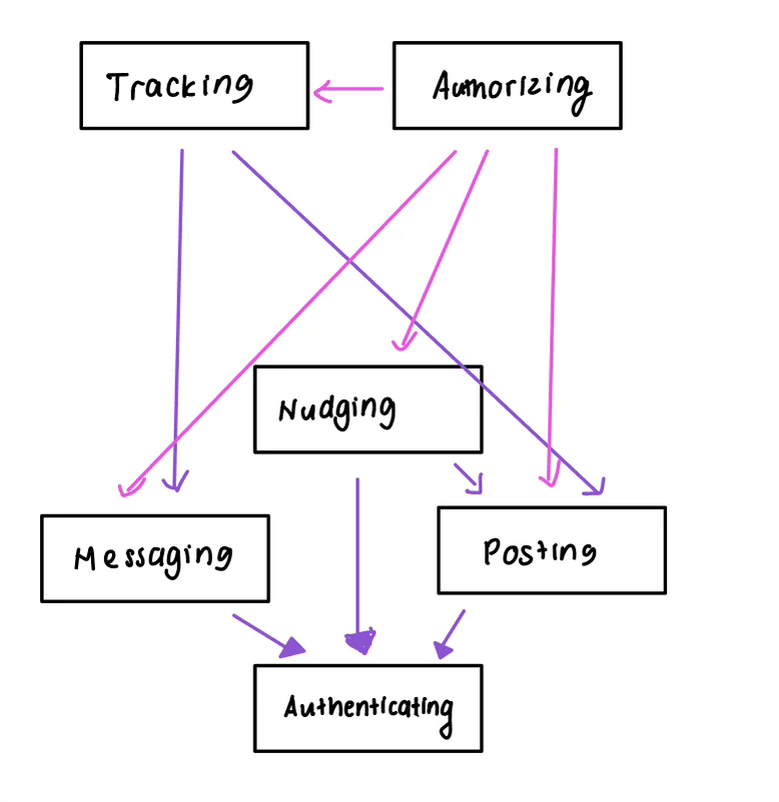
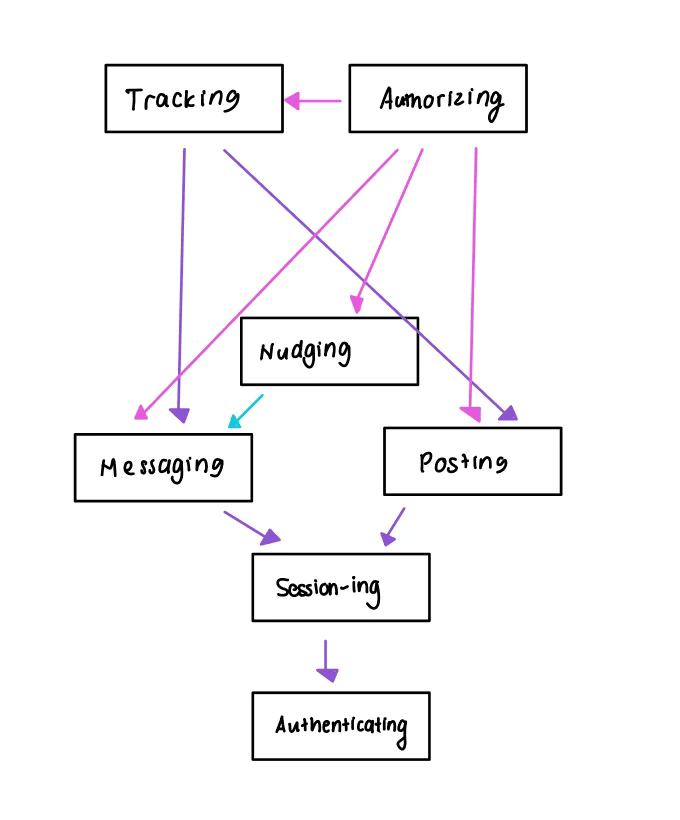
update A3

Changed region(s): [[0.0309, 0.0312, 0.8647, 0.9663]]

diff --git a/docs/assignments/assignment3.md b/docs/assignments/assignment3.md
@@ -56,9 +56,9 @@ __Actions__:
 
 ### Concept 2: 
 
-__Name__: Authenticating \[Item]
+__Name__: Authenticating
 
-__Purpose__: authentaticate users so that app users correspond to people
+__Purpose__: authenticate users so that app users correspond to people
 
 __Operational Principle__: 
     
@@ -70,7 +70,6 @@ __State__:
 
     registered: __set__ User
     username, password: registered -> __one__ String
-    active_users: __set__ User
 
 __Actions__:
 
@@ -80,20 +79,10 @@ __Actions__:
     unregister(user: User)
         registered -= (user.name, user.password)
         active_users -= user
-
-    login(name, pass:String)
-        (name, pass) in registered
-        active_users += user
-
-    logout(user: User)
-        (name, pass) in registered
-        active_users -= user
     
-    isLoggedIn(user:User, __out__ user: User)
-        user in active_users
-    
-    isRegistered(user: User, __out__ user: User)
-        user in registered
+    authenticate(name, pass: String, __out__ user: User)
+        (name, pass) in registered
+
 
 
 ### Concept 3:
@@ -103,7 +92,7 @@ __Purpose__: deliver a notification
 
 __Operational Principle__: 
 
-    a user/the system a can nudge another user b
+    a user/the system userA can nudge another user userB
     to complete an action a
 
 __State__: 
@@ -112,34 +101,34 @@ __State__:
 
 __Actions__: 
 
-    notify(a: User, b: User, action: String)
-        nudges[a, b] += action
+    notify(userA: User, userB: User, action: String)
+        nudges[userA, userB] += action
 
 
 ### Concept 4:
 
-__Name__: Messaging \[Item]
+__Name__: Messaging \[User]
 
 __Purpose__: deliver a communication
 
 __Operational Principle__:
     user a can deliver a message
-    with content c to user b
+    with content `content` to user b
 
 __State__:
     message: (user, user) -> String s
     mesages: __set__ message
 
 __Actions__:
-    send(a: User, b: User, c: String)
-        message[a, b] = c
+    send(a: User, b: User, content: String)
+        message[a, b] = content
         messages += message
 
-    unsend(a: User, b: User, c: String)
+    unsend(a: User, b: User, content: String)
         messages -= message[a, b, c]
     
     deleteAll(a: User)
-        messages -= message[a, b, c] for any b, c
+        messages -= message[a, b, content] for any b, content
     
     getMessages(a: User)
         message for message in messages if message[0] == a
@@ -176,7 +165,7 @@ __Actions__:
 
 ### Concept 6: 
 
-__Name__: Tracking \[Item]
+__Name__: Tracking \[Action]
 
 __Purpose__: monitor and track statistics
 
@@ -210,6 +199,33 @@ __Actions__:
     get_tracked_user_activity(u: User, action: String, __out__: actions)
         action for actions in user_actions[u] if action[0] == action
 
+### Concept 7: 
+
+__Name__: Session-ing \[Action]
+
+__Purpose__: enable authenticated actions for an extended period of time
+
+__Operational Principle__:
+
+    after a session starts (and before it ends),
+    the getUser action returns the user identified at the start:
+    start(u,s); getUser(s, u') {u'=u}
+
+__State__:
+
+    active: __set__ Session
+    user: active -> one User
+
+__Actions__:
+
+    start(user: User, __out__ sess: Session)
+        active += user
+
+    getUser(sess: Session, __out__ user: User)
+        user in active
+    
+    end(sess: Session)
+        active -= user
 
 
 ## Synchronizations of Concept Actions 
@@ -218,21 +234,36 @@ __Actions__:
 
 \{Authenticating\}
 
-\{Messaging, Authenticating\}
+\{Messaging, Session-ing, Authenticating\}
 
-\{Posting, Authenticating\}
+\{Posting,  Session-ing, Authenticating\}
 
-\{Nudging, Authenticating\}
+\{Nudging, Messaging, Session-ing, Authenticating\}
 
-\{Authorizing, Tracking, Messaging, Nudging, Posting, Authenticating\}
+\{Authorizing, Tracking, Messaging, Session-ing,Authenticating\}
 
-\{Tracking, Messaging, Posting, Authenticating\}
+\{Authorizing, Tracking, Posting, Session-ing,Authenticating\}
+
+\{Tracking, Messaging, Session-ing, Authenticating\}
+
+\{Tracking, Posting, Session-ing Authenticating\}
 
 ### App Level & Synchronizations
 
-include Authenticating,  Messaging[Authenticating.User], Posting[Authenticating.User], 
+include Authenticating, Sessioning[Authenticating.User]  Messaging[Sessioning.User], Posting[Sessioning.User], 
 Nudging[Messaging.Message], Tracking[Messaging.Messages], Tracking[Posting.Posts], 
-Authorizing[Messaging], Authorizing[Tracking], Authorizing[Posting], 
+Authorizing[Messaging], Authorizing[Tracking], Authorizing[Posting]
+
+```
+__sync__ register(username, password: String, __out__ user: User)
+
+    Authenticating.register(username, password, user)
+```
+```
+__sync__ login(username, password: String, __out__ user: User, out session: Session)
+    Authenticating.authenticate(username, password, user)
+    Sessioning.start(user, session)
+```
 ```
 __sync__ sendMessage(userA: User, userB: User, message: String)
     
@@ -253,7 +284,6 @@ __sync__ post(user: User, p: Post)
     Authorizing.isLoggedIn(user)
     Authorizing.isAllowed(user, "post")
     Post.post(user, p)
-    Nudging.notify()
 ```
 ```
 __sync__ edit(user: User, oldPost: Post, newPost: Post)
@@ -333,34 +363,11 @@ __sync__ trackPostingActivity(user: User)
     Tracking.start_tracking(user, "post")
 ```
 ```
-__sync__ nudgeForPost(user: User)
-
-    Authorizing.isLoggedIn(user)
-    Authorizing.isAllowed(user, "nudge")
-    Nudging.notify(system, user, "post")
-```
-```
 __sync__ unregister(user: User)
 
     Authorizing.isLoggedIn(user)
     Tracking.stop_tracking(user, activity) for activity in Tracking.get_tracked_activities(user)
 ```
-```
-__sync__ nudgeForInactivePoster(user: User)
-
-    Authorizing.isLoggedIn(user)
-    Tracking.get_tracked_user_activity(user, "post")
-    Nudging.notify(system, user, "post")
-```
-```
-__sync__ autoPostFromTracking(user: User, post: Post)
-
-    Authorizing.isLoggedIn(user)
-    Authorizing.isAllowed(user, "post")
-    Tracking.get_tracked_user_activity(user, "message")
-    Posting.post(user, post)
-```
-
 
 ## Dependency Diagram
 
